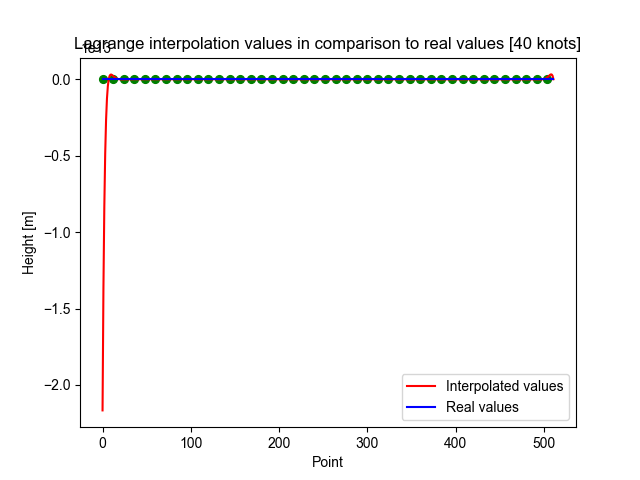
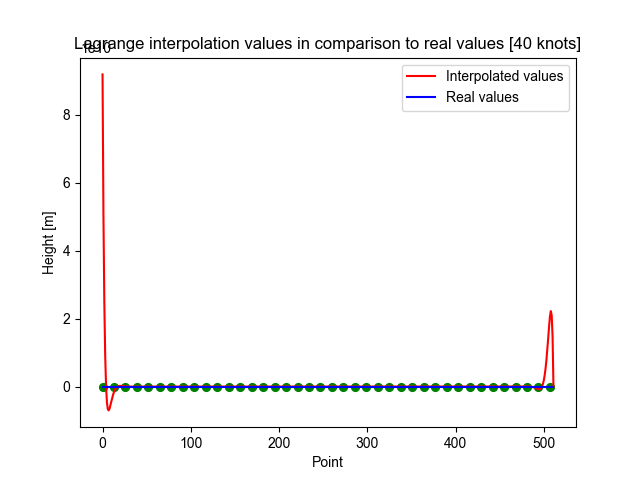
Round better

diff --git a/methods/lagrange.py b/methods/lagrange.py
@@ -1,5 +1,5 @@
 def lagrange(original_data, knots_number):
-    step = int(len(original_data) / knots_number)
+    step = int(round(len(original_data) / knots_number * 2) / 2)
     data = original_data[::step]
     values = []
     for i, _ in reversed(list(enumerate(original_data))):

diff --git a/methods/spline.py b/methods/spline.py
@@ -2,7 +2,7 @@ import numpy
 
 
 def spline(original_data, knots_number):
-    step = int(len(original_data) / knots_number)
+    step = int(round(len(original_data) / knots_number * 2) / 2)
     data = original_data[::step]
     n = len(data) - 1
     coefficients_number = 4
